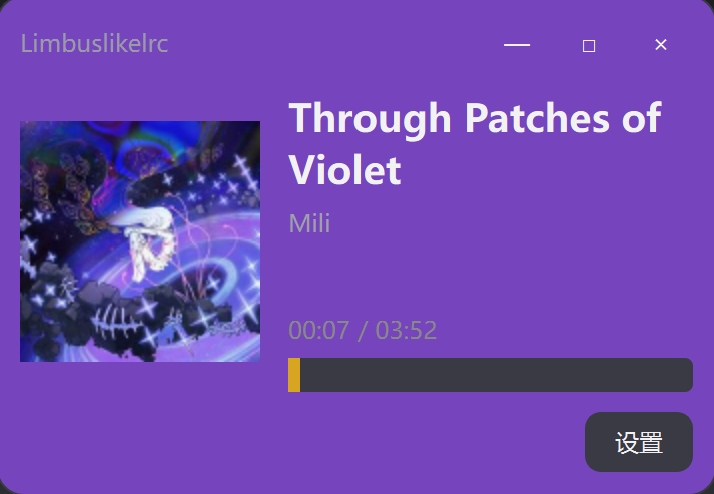
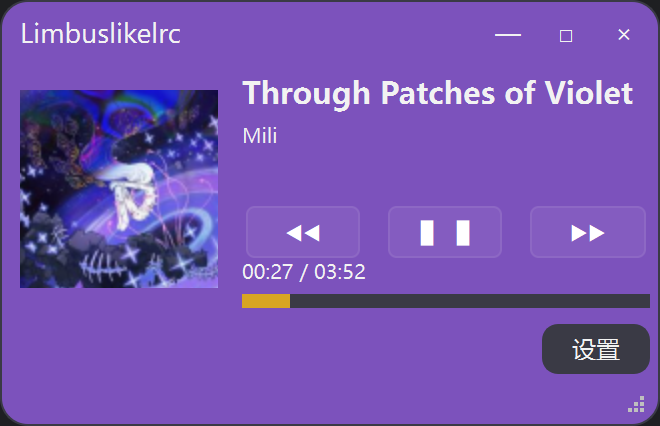
添加网易云Microsoft Store的适配

diff --git a/core/cloudmusic_watcher.py b/core/cloudmusic_watcher.py
@@ -1,85 +1,86 @@
 """
 网易云本地播放状态监听模块。
 
-通过 netease-cloudmusic-detector 读取 cloudmusic.elog，
+通过修改后的 cloudmusic_detector 官方库读取 cloudmusic.elog，
 统一提供当前歌曲、播放/暂停状态以及播放进度，
 并通过 Qt 信号通知其他模块。
 """
 
 import threading
+import sys
+import os
+sys.path.insert(0, os.path.join(os.path.dirname(__file__), '..', 'libs'))
 
 from PySide6.QtCore import QObject, QTimer, Signal
-
 from cloudmusic_detector import CloudMusic
 from core.logger import get_logger
+
 logger = get_logger()
 
 
 class CloudMusicWatcher(QObject):
     """
-    网易云本地播放状态监听器，
-
-    通过轮询提供切歌、
-    播放/暂停和进度信号。
+    网易云本地播放状态监听器，通过轮询提供切歌、播放/暂停和进度信号。
     """
 
     is_playing_changed = Signal(bool)
-
     position_changed = Signal(float)
-
     track_changed = Signal(str, str, str)
 
+    @staticmethod
+    def _find_elog_path():
+        """查找 elog 文件，优先桌面版，其次 Store 版。"""
+        local = os.environ.get("LOCALAPPDATA")
+        if not local:
+            return None
+
+        # 桌面版
+        path = os.path.join(local, "NetEase", "CloudMusic", "cloudmusic.elog")
+        if os.path.exists(path):
+            return path
+
+        # Store 版（两种常见路径）
+        import glob
+        patterns = [
+            os.path.join(local, "Packages", "*", "LocalCache", "Local", "NetEase", "CloudMusic", "cloudmusic.elog"),
+            os.path.join(local, "Packages", "*", "Local", "NetEase", "CloudMusic", "cloudmusic.elog"),
+        ]
+        for p in patterns:
+            matched = glob.glob(p)
+            if matched:
+                return matched[0]
+        return None
+
     def __init__(self, parent=None, poll_interval_ms=200):
-        """
-        初始化监听器并启动后台监听。
-
-        Args:
-            parent: 可选的 Qt 父对象。
-            poll_interval_ms: 主线程轮询播放状态的间隔（毫秒）。
-        """
-
         super().__init__(parent)
 
-        self._cm = CloudMusic()
+        elog_path = self._find_elog_path()
+        if not elog_path:
+            logger.error("未找到 cloudmusic.elog，无法启动监听")
+            self._started = False
+            return
 
+        self._cm = CloudMusic(elog_path=elog_path)
         self._last_playing = None
         self._last_position = None
         self._last_track_key = None
-
         self._started = False
 
-        # 事件回调可能来自后台线程，
-        # 这里只做轻量标记，真正的状态读取交给主线程定时器，
-        # 避免跨线程直接操作 Qt 以外的共享逻辑。
-        self._cm.on_track_change(self._on_track_event)
-        self._cm.on_state_change(self._on_state_event)
-        self._cm.on_seek(self._on_seek_event)
-
-        self._poll_timer = QTimer(self)
-
-        self._poll_timer.timeout.connect(
-            self._poll_state
-        )
-
-        self._poll_timer.start(poll_interval_ms)
-
+        # 启动官方库监听（后台线程）
         self._start_backend()
 
+        # 主线程定时轮询状态
+        self._poll_timer = QTimer(self)
+        self._poll_timer.timeout.connect(self._poll_state)
+        self._poll_timer.start(poll_interval_ms)
+
     def _start_backend(self):
-        """
-        在后台线程中启动 CloudMusic 监听。
-
-        CloudMusic.start() 启动时会回溯已有日志，
-        可能短暂阻塞，因此不能放在 Qt 主线程中执行。
-        """
-
+        """在后台线程启动 CloudMusic 监听。"""
         def runner():
             try:
                 self._cm.start()
                 self._started = True
-
-                logger.info(f"本地播放状态监听已启动")
-
+                logger.info("本地播放状态监听已启动")
             except FileNotFoundError as exc:
                 logger.error(f"未找到 cloudmusic.elog：{exc}")
             except Exception as exc:
@@ -87,136 +88,50 @@ class CloudMusicWatcher(QObject):
 
         threading.Thread(target=runner, daemon=True).start()
 
-    def _on_track_event(self, track):
-        """
-        CloudMusic 切歌回调。
-
-        实际信号发送仍由主线程轮询完成，
-        这里仅用于尽快触发一次状态刷新。
-        """
-
-        pass
-
-    def _on_state_event(self, state):
-        """
-        CloudMusic 播放/暂停回调。
-        """
-
-        pass
-
-    def _on_seek_event(self, position):
-        """
-        CloudMusic 进度拖拽回调。
-        """
-
-        pass
-
     def _poll_state(self):
-        """
-        从 CloudMusic 读取最新状态快照，并按需发出信号。
-        """
-
+        """定时轮询状态，发射信号。"""
         if not self._started:
             return
 
         try:
             state = self._cm.state
             track = state.track
-
         except Exception as exc:
-
             logger.error(f"读取播放状态失败：{exc}")
-
             return
 
-        song = (track.name or "").strip()
-        artist = (
-                getattr(track, "artist_str", "")
-                or ""
-        ).strip()
+        song = track.name or ""
+        artist = track.artist_str or ""
+        track_key = (song.lower(), artist.lower())
 
-        if not artist:
-            artists = getattr(track, "artists", ()) or ()
-            artist = " / ".join(
-                str(item).strip()
-                for item in artists
-                if str(item).strip()
-            )
-
-        track_key = (
-            song.lower(),
-            artist.lower()
-        )
-
-        track_id = getattr(track, "id", 0)
-        track_id_str = str(track_id) if track_id else ""
-
-        if (
-                song
-                and
-                track_key != self._last_track_key
-        ):
+        if song and track_key != self._last_track_key:
             self._last_track_key = track_key
-
             logger.info(f"当前歌曲：{song} - {artist}")
+            track_id = track.id if track.id != -1 else 0
+            self.track_changed.emit(song, artist, str(track_id))
 
-            self.track_changed.emit(
-                song,
-                artist,
-                track_id_str
-            )
-
-        is_playing = bool(state.is_playing)
-
+        is_playing = state.is_playing
         if is_playing != self._last_playing:
             self._last_playing = is_playing
+            self.is_playing_changed.emit(is_playing)
 
-            self.is_playing_changed.emit(
-                is_playing
-            )
-
-        position = float(state.position or 0.0)
-
-        # 进度有变化时通知界面
-        if (
-                self._last_position is None
-                or
-                abs(position - self._last_position) >= 0.05
-        ):
+        position = state.position
+        if self._last_position is None or abs(position - self._last_position) >= 0.05:
             self._last_position = position
-
-            self.position_changed.emit(
-                position
-            )
+            self.position_changed.emit(position)
 
     def current_position(self):
-        """
-        返回当前播放进度（秒）。
-
-        Returns:
-            当前进度秒数。监听尚未就绪时返回 0.0。
-        """
-
+        """返回当前播放进度（秒）。"""
         if not self._started:
             return 0.0
-
         try:
-            return float(self._cm.position or 0.0)
-
+            return self._cm.position
         except Exception:
             return 0.0
 
     def stop(self):
-        """
-        停止本地监听并释放资源。
-        """
-
+        """停止监听。"""
         self._poll_timer.stop()
-
-        try:
+        if self._started:
             self._cm.stop()
-
-        except Exception:
-            pass
-
         self._started = False

diff --git a/libs/cloudmusic_detector/api.py b/libs/cloudmusic_detector/api.py
@@ -248,7 +248,19 @@ class CloudMusic:
                         song_track = self._make_track(detail)
                         song_id = song_track.id
                         song_play_time = header.timestamp
-                break
+                    else:
+                        # Store 版网易云没有 webdb.dat，查询会失败。
+                        # 回退：从已记录的 records 中查找 playOneTrackInPlayingList 事件
+                        for rec in records:
+                            if 'playOneTrackInPlayingList' in rec:
+                                etype2 = get_event_type(rec, ELOG_RULES)
+                                if etype2 == "PLAY_ONE_TRACKIN_PLAYING_LIST":
+                                    data2 = parse_args(etype2, rec)
+                                    if data2 and isinstance(data2, dict):
+                                        song_track = self._make_track(data2)
+                                        song_id = song_track.id
+                                        song_play_time = header.timestamp
+                                        break
 
         # 正序回放进度和状态
         records.reverse()

diff --git a/libs/cloudmusic_detector/_elog_analysis.py b/libs/cloudmusic_detector/_elog_analysis.py
@@ -94,6 +94,7 @@ def _get_system_uptime_ms() -> int:
 
 
 def parse_header(row: str) -> Optional[_ElogHeader]:
+    row = row.lstrip()  # 去除前导空格或不可见字符
     m = _HEADER_RE.match(row)
     if not m:
         return None

diff --git a/README.md b/README.md
@@ -6,13 +6,14 @@
 
 ## 界面预览
 
-![歌词效果](assets/effect.png)
-![程序主页面](assets/Interface_effect.png)
-![设置页面](assets/Setting_effect.png)
+<img src="assets/effect.png" alt="歌词效果" width="400">
+<img src="assets/Interface_effect.png" alt="程序主页面" width="400">
+<img src="assets/Setting_effect.png" alt="设置页面" width="150">
 
 ## 功能
 
 - 通过网易云本地日志（`cloudmusic.elog`）识别当前歌曲、歌手（无需额外插件）
+- **同时支持桌面版和 Microsoft Store 版网易云音乐**
 - 实时监听播放/暂停状态，同步真实播放进度（支持中途启动、拖动进度条）
 - 自动获取并解析 LRC 歌词，过滤「作词/作曲」等非歌词元信息
 - 全屏歌词逐字出现、抖动、描边、随机倾斜动画
@@ -26,7 +27,7 @@
 ## 系统要求
 
 - **仅支持 Windows**
-- 已安装并运行 [网易云音乐](https://music.163.com/) 桌面客户端（建议 3.x 及以上）
+- 已安装并运行 [网易云音乐](https://music.163.com/) 桌面客户端或 Microsoft Store 版（建议 3.x 及以上）
 - Python 3.9+
 - 客户端至少运行过一次，以生成本地 `%LOCALAPPDATA%\NetEase\CloudMusic\cloudmusic.elog`
 
@@ -65,6 +66,8 @@ Limbuslikelrc/
 ├── Limbuslikelrc.spec      # 打包配置（可选）
 ├── assets/                 # 图标与预览图
 │   └── app.ico             # 应用图标（含多尺寸）
+├── libs/                   # 本地第三方库
+│   └── cloudmusic_detector/   # 修改版网易云状态监听库（支持桌面版和 Store 版）
 ├── core/                   # 核心功能模块
 │   ├── __init__.py
 │   ├── cloudmusic_watcher.py   # 本地 elog 监听（歌曲/播放暂停/进度）
@@ -83,7 +86,7 @@ Limbuslikelrc/
 
 ## 工作原理（简要）
 
-1. core/cloudmusic_watcher.py 通过 netease-cloudmusic-detector 读取网易云本地日志，获取当前歌曲、播放状态与进度。
+1. core/cloudmusic_watcher.py 通过修改后的 cloudmusic_detector 库读取网易云本地日志，获取当前歌曲、播放状态与进度，同时兼容桌面版和 Store 版。
 2. core/netease_source.py 在切歌后请求 LRC，并由 core/lrc_parser.py 解析。
 3. ui/overlay.py 按时间轴渲染逐字动画；拖动进度条时仅恢复当前仍应可见的歌词，避免历史句子一次铺满。
 4. core/cloudmusic_controller.py 通过模拟全局快捷键控制网易云音乐播放，支持自定义热键。
@@ -92,7 +95,7 @@ Limbuslikelrc/
 ## 已知限制
 
 - 目前仅支持 Windows 系统。
-- 仅支持网易云音乐桌面客户端。
+- 仅支持网易云音乐桌面客户端或 Microsoft Store 版。
 - 播放状态依赖本地 cloudmusic.elog，若文件缺失或客户端版本差异较大可能无法正确识别。
 - 歌词内容依赖网易云网络接口，需要网络连接。
 
